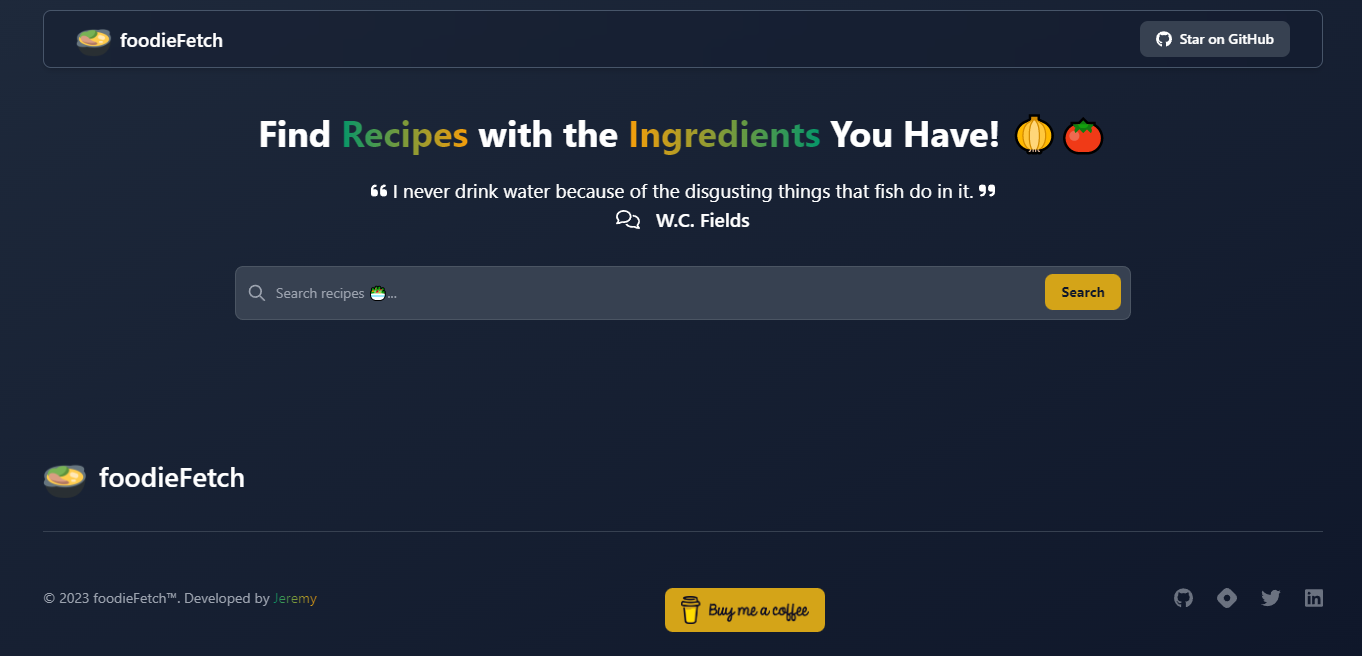
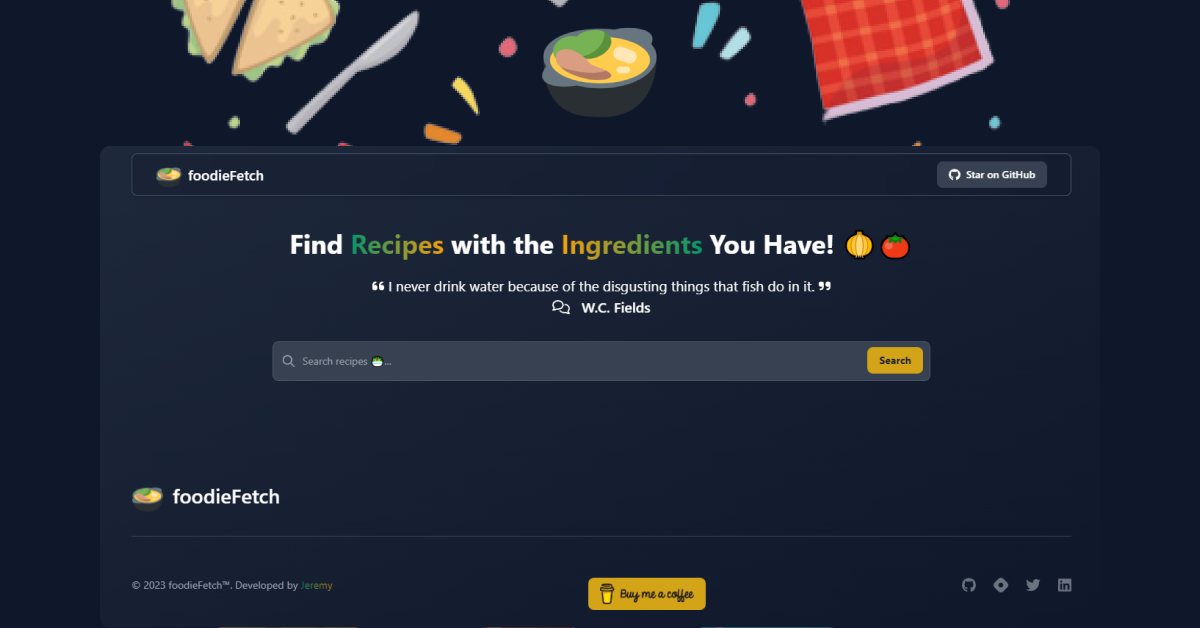
fix: update link preview image

diff --git a/index.html b/index.html
@@ -61,7 +61,7 @@
       property="og:description"
       content="A food recipe app built with JavaScript and Tailwind CSS where you can search recipes with an ingredient."
     />
-    <meta property="og:image" content="https://i.ibb.co/7K5sGn3/og-image.png" />
+    <meta property="og:image" content="https://i.ibb.co/HDZCCqv/og-image.png" />
     <meta property="og:site_name" content="Foodie Fetch" />
 
     <!-- Twitter -->
@@ -74,7 +74,7 @@
     />
     <meta
       property="twitter:image"
-      content="https://i.ibb.co/7K5sGn3/og-image.png"
+      content="https://i.ibb.co/HDZCCqv/og-image.png"
     />
 
     <!-- Schema markup for structured data -->
@@ -85,7 +85,7 @@
         "name": "Foodie Fetch — Food Recipe App",
         "description": "A food recipe app built with JavaScript and Tailwind CSS",
         "url": "https://foodie-fetch.netlify.app",
-        "image": "https://i.ibb.co/7K5sGn3/og-image.png"
+        "image": "https://i.ibb.co/HDZCCqv/og-image.png"
       }
     </script>
 
